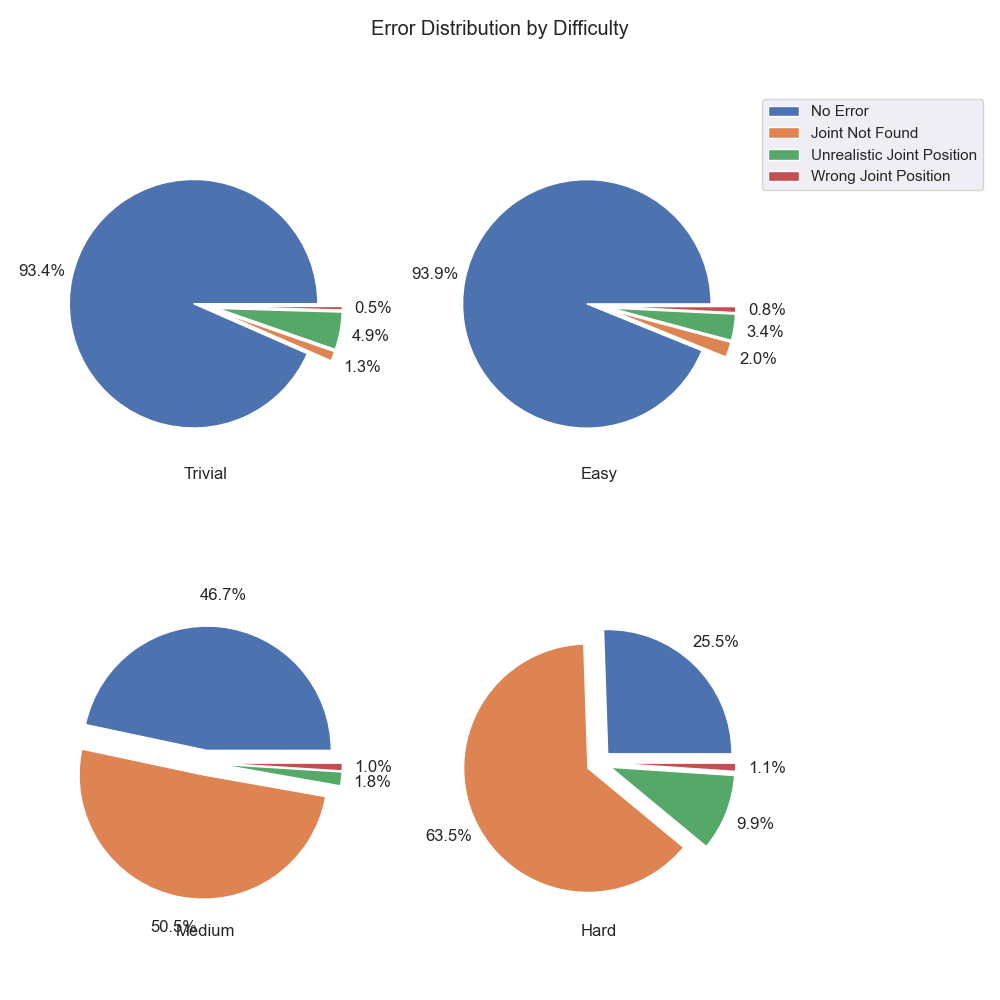
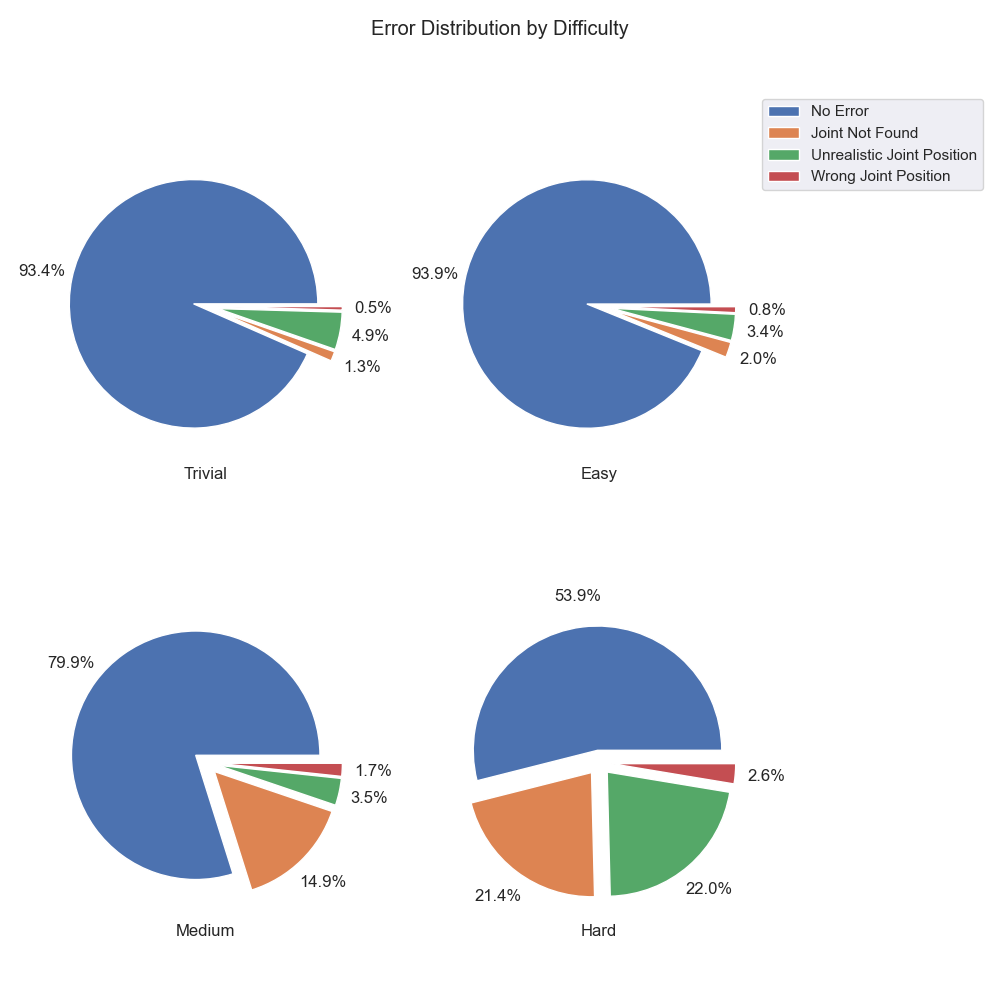
Dataset analysis and model section

Changed region(s): [[0.465, 0.589, 0.775, 0.899], [0.062, 0.589, 0.403, 0.93], [0.434, 0.806, 0.465, 0.837]]

diff --git a/docs/Thesis/sections/3_model/2_data_preparation.tex b/docs/Thesis/sections/3_model/2_data_preparation.tex
@@ -1,16 +1,14 @@
 \section{Data preparation}
 \label{sec:data_preparation}
 
-In previous sections we have explained the structure of the data and how the data is labeled. In this section we will explain how the data is prepared for training. The data preparation consists of two parts, data augmentation and data splitting.
+In previous sections, we have explained the structure of the data and how the data is labeled. In this section, we will explain how the data is prepared for training. The data preparation consists of two parts, data augmentation, and data splitting.
 
-After the data has been split and augmented, the data is stored in tensors of a fixed size. If an image is too small we apply a bilinear interpolation to resize the image. If an image is too large we crop the side. The images are resized to $300 \times 300$ pixels. The depth images are resized in the same way and area.
+After the data has been split and augmented, the data is stored in tensors of a fixed size. If an image is too small we apply a bilinear interpolation to resize the image. If an image is too large we crop the side. The images are resized to $300 \times 300$ pixels.
 
 \subsection{Data augmentation}
 \label{sec:data_augmentation}
 
-To ensure that the model is robust to different variations in the data, the data is augmented. We apply three different forms of augmentation to the data. The first form of augmentation is flipping the data. The RGB image, the depth image and the relative joint coordinates are flipped horizontally. Furthermore, we apply random and non-random cropping to the visual data. We ensure that none of the joints are outside the image. We also apply random padding when the image is cropped. The final augmentation is Gaussian noise. We apply Gaussian noise to the RGB image and the depth image.
-
-In Figure \ref{fig:augmentation} we can see the different augmentations.
+To ensure that the model is robust to different variations in the data, the data is augmented. We apply three different forms of augmentation to the data. The first form of augmentation is flipping the data. The RGB image, the depth image, and the relative joint coordinates are flipped horizontally. Furthermore, we apply random and non-random cropping to the visual data. We ensure that none of the joints are outside the image. We also apply random padding when the image is cropped. The final augmentation is Gaussian noise. We apply Gaussian noise to the RGB image and the depth image. In Figure \ref{fig:augmentation} we can see the different augmentations.
 
 \begin{figure}
     \includegraphics[width=.33\textwidth]{figures/Model/Augmentation/Original.png}\hfill
@@ -20,12 +18,10 @@ In Figure \ref{fig:augmentation} we can see the different augmentations.
     \includegraphics[width=.33\textwidth]{figures/Model/Augmentation/Cropped.png}\hfill
     \includegraphics[width=.33\textwidth]{figures/Model/Augmentation/CroppedPad50.png}\hfill
     \includegraphics[width=.33\textwidth]{figures/Model/Augmentation/RandomCropped.png}
-    \caption[Data Augmentation]{Augmentation applied to a sample frame. The augmentations are; None, Horizontal flipping, Gaussian Blur, Exact Cropping, Exact Cropping with padding and random Cropping respectively.}\label{fig:augmentation}
+    \caption[Data Augmentation]{Augmentation applied to a sample frame. The augmentations are; Horizontal flipping, Gaussian Blur, Exact Cropping, Exact Cropping with padding, and random Cropping respectively.}\label{fig:augmentation}
 \end{figure}
 
 
 \subsection{Data splitting}
 
-The data is split into three parts. The first part is the training data. The training data is used to train the model. The second part is the validation data. We split the training and the validation data vertically, i.e. we split the dataset along frames and not recording sessions. This is done to ensure that the validation data is comparable to the training data. 
-
-To test the validity of the model itself, we split the data by exercise. We define 4 exercises which are not used during training and evaluation. We chose the exercises such that each exercise is in a different difficulty category, i.e. one of the exercises for testing has a trivial difficulty, one is considered as easy and so on. With this we try to find if our model performs better or worse with increased difficulty on unseen data.
+The data is split into two parts. The first part is the training data. The training data is used to train the model. To test the validity of the model itself, we split the data by exercise. We define 4 exercises, which are not used during training. We chose the exercises such that each exercise is in a different difficulty category, i.e. one of the exercises for testing has a trivial difficulty, one is considered as easy, and so on. With this, we try to find if our model performs better or worse with increased difficulty on unseen data.

diff --git a/docs/Thesis/sections/2_data_processing/4_dataset.tex b/docs/Thesis/sections/2_data_processing/4_dataset.tex
@@ -19,7 +19,9 @@ Equation \ref{eq:orientation} was used to achieve the specified orientation. In 
 
 An important aspect of the dataset is the structure and distribution of data and their labels. In total we recorded all 13 exercises, mentioned in Section \ref{sec:exercises}, twice. Each recording session consists of exactly 300 frames.
 
-If a joint cannot be detected by Nuitrack it automatically gets zero coordinates, i.e. every value is zero. This makes it easy to automatically label these joints as faulty, in particular with the error label $1$ - Joint Missing. However, for the rest of the errors each frame has to be manually inspected and each joint considered. Since this requires a lot of work we reduced the labeled frames to 10 percent of the original size. Therefore, each exercise contains 30 frames and in total $30 \cdot 13 \cdot 2 = 720$ frames are labeled. 
+If a joint cannot be detected by Nuitrack it automatically gets zero coordinates, i.e. every value is zero. This makes it easy to automatically label these joints as faulty, in particular with the error label $1$ - Joint Missing. However, for the rest of the errors each frame has to be manually inspected and each joint considered. Since this requires a lot of work we reduced the labeled frames to 10 percent of the original size. Therefore, each exercise contains 30 frames and in total $30 \cdot 13 \cdot 2 = 720$ frames are labeled.
+
+When multiple persons are detected one person might be incorrectly detected in the background. While analysing the data we pick the person that is not labeled as faulty whenever possible. For training and testing this is choosen at random. If a person is labeled as faulty each joint is marked as in a unrealistic position.
 
 \subsubsection{Distribution of Errors}
 
@@ -32,16 +34,12 @@ An important factor in how well a model can be trained on data is the balance of
   \label{fig:statistics_err_dist}
 \end{figure}
 
-To diversify the dataset we recorded different exercises with varying difficulties. In Figure \ref{fig:statistics_err_diff} we see that the difficulty has an influence on the amount of errors that occur for any given joint. We see that there is barely any difference between the trivial and the easy exercises. However, in Figure \ref{fig:statistics_err_dist_diff} we see that while trivial exercises have a higher percentage of unrealistic joint positions, i.e. the joint is in a wrong location, the easy exercises have a higher percentage of joints which are not detected. However, this difference is very small. 
-
-Medium exercises have around half of the joints
-
-This proves the soundness of our design proposals for challenging exercises from Section \ref{sec:exercises}.
+To diversify the dataset we recorded different exercises with varying difficulties. In Figure \ref{fig:statistics_err_diff} we see that the difficulty has an influence on the amount of errors that occur for any given joint. We see that there is barely any difference between the trivial and the easy exercises. However, in Figure \ref{fig:statistics_err_dist_diff} we see that while trivial exercises have a higher percentage of unrealistic joint positions, i.e. the joint is in a wrong location, the easy exercises have a higher percentage of joints which are not detected. However, this difference is very small. Medium and Hard exercises are more error prone as was intended. This reflects our design proposals for challenging exercises from Section \ref{sec:exercises} indeed cause more difficult scenarios.
 
 \begin{figure}
   \centering
   \includegraphics[width=0.5\textwidth]{figures/Data/Error_Rate_by_Difficulty.png}
-  \caption[Error Rate by Difficulty]{The rate that errors occur for any given difficulty. TODO}
+  \caption[Error Rate by Difficulty]{The rate that errors occur for any given difficulty. }
   \label{fig:statistics_err_diff}
 \end{figure}
 
